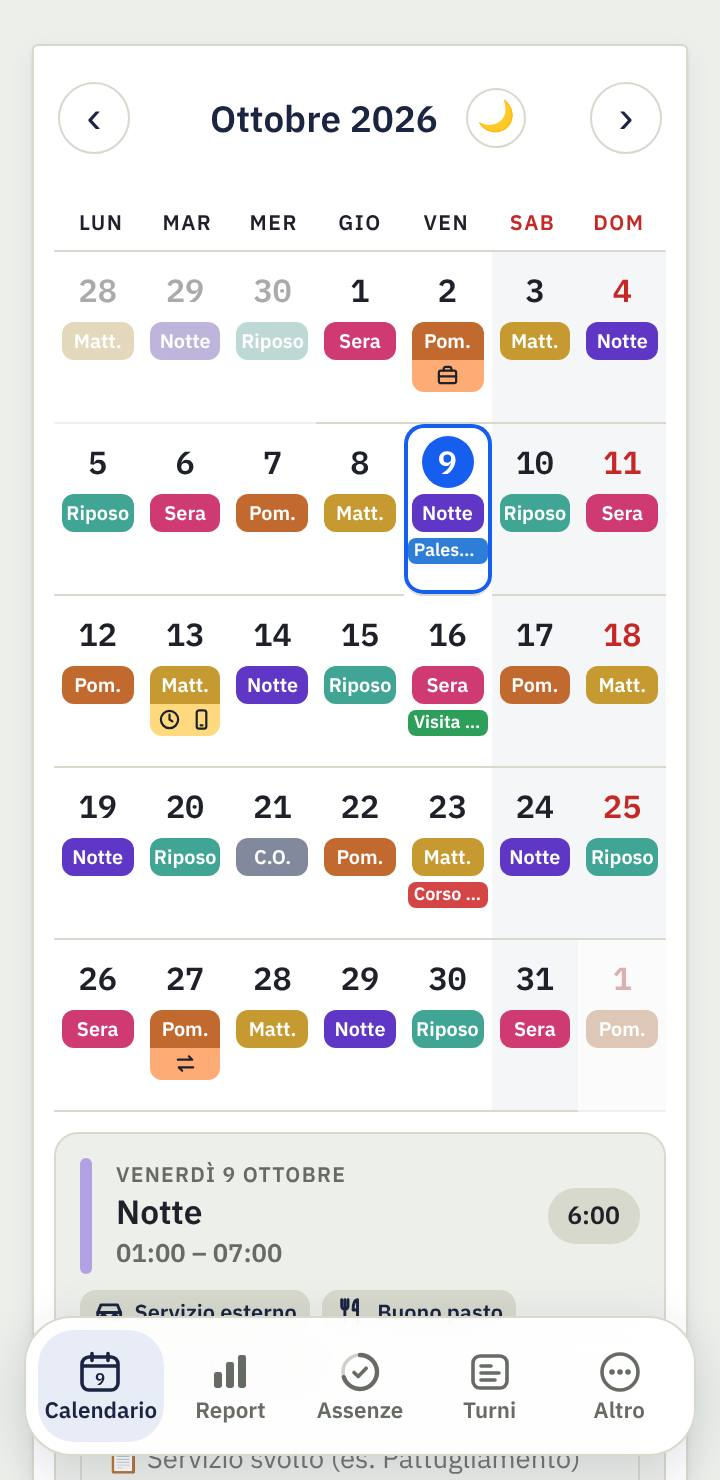
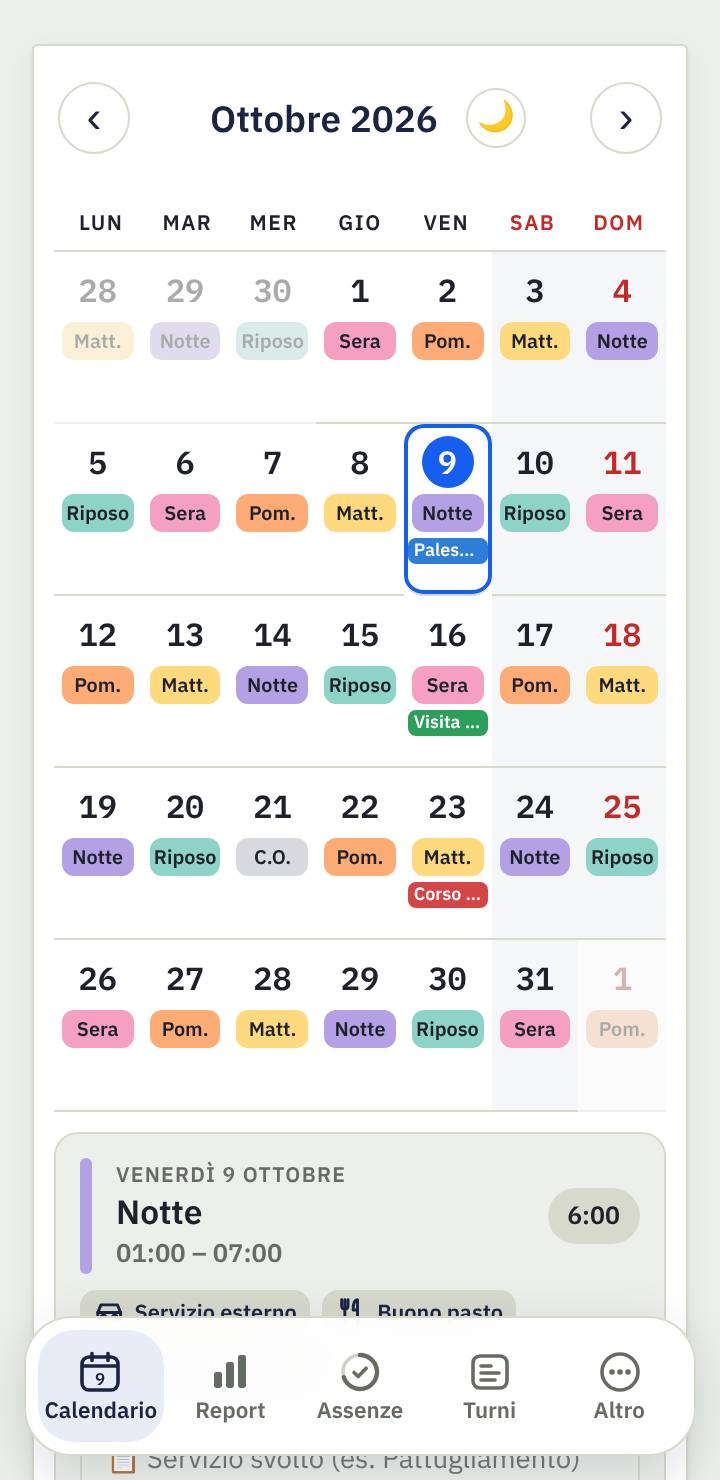
Guida aggiornata alla versione 3.4
- Immagini nuove (calendario, giorno, Report, Assenze, Altro, saldi) e due
  nuove: Cedolino stimato e Anagrafica
- Primo avvio con tutti i dati (reddito facoltativo, resta sul telefono)
- Caselle del calendario senza simboli; cambio turno pagato a luglio
- Report: Personalizza, cedolino con Tutte le voci, ± Conguaglio, PDF,
  detrazioni e addizionali come NoiPA
- Assenze: Giorni di partenza con Modifica, colori, Nuova assenza
- Altro: Anagrafica, Tabelle (valori in blu e ↺), Backup; domande frequenti

Claude-Session: https://claude.ai/code/session_01PSeREU5gDDB7bRrUAU7GkJ

diff --git a/guida-turni.html b/guida-turni.html
@@ -23,20 +23,20 @@ a{color:#2E4A8F}
 @media(max-width:600px){.sez{grid-template-columns:1fr}.sez img{width:min(240px,70vw);margin:4px auto 0}.tab td:first-child{white-space:normal}}
 </style></head><body>
 <h1>Guida a Turni & Accessorio PS</h1>
-<p class="agg">Come si usa l'app, passo per passo · aggiornata alla versione 2.93</p>
+<p class="agg">Come si usa l'app, passo per passo · aggiornata alla versione 3.4</p>
 <nav><a href="#inizio">Primi passi</a><a href="#calendario">Calendario</a><a href="#giorno">Il giorno e le indennità</a><a href="#sequenza">Turni</a><a href="#report">Report</a><a href="#assenze">Assenze</a><a href="#altro">Altro</a><a href="#promemoria">Promemoria e widget</a><a href="#backup">Backup</a><a href="#domande">Domande</a></nav>
 
 <h2 id="inizio">1. Primi passi</h2>
 <div class="sez"><div>
 <p>Al primo avvio l'app ti accompagna in 5 passi:</p>
 <ol>
-<li><b>Chi sei</b>: qualifica, anni di servizio e regione. Servono per stimare stipendio e tasse.</li>
+<li><b>Chi sei</b>: qualifica, anni di servizio, regione, addizionale comunale (0,8% se non la sai), coniuge e figli over 21 a carico, sindacato con la quota al mese e, se vuoi, il reddito dell'anno scorso. Servono per stimare stipendio e tasse.</li>
 <li><b>Come lavori</b>: scegli la tua turnazione (es. Turno in quinta) e cosa fai oggi. L'app riempie i prossimi 3 mesi.</li>
 <li><b>Quanto ti resta</b>: congedo ordinario diviso per anno, recuperi e riposo compensativo, come risultano all'ufficio.</li>
 <li><b>Come la vuoi</b>: tema chiaro o scuro, promemoria e widget (all'inizio sono spenti).</li>
 <li><b>Tutto pronto</b>: un riepilogo di quello che hai scelto.</li>
 </ol>
-<div class="cons">💡 Coniuge, figli over 21 e sindacato li aggiungi dopo in <b>Altro → Anagrafica</b>, nel riquadro "I tuoi dati".</div>
+<div class="cons">💡 Il <b>reddito dell'anno scorso</b> (dalla CU) è facoltativo e resta solo sul telefono. Se lo scrivi, detrazioni e addizionali vengono come nel cedolino NoiPA. Tutto si cambia poi in <b>Altro → Anagrafica</b>.</div>
 </div><img src="turni/guida/saldi.jpg" alt="Saldi di partenza: congedo per anno" loading="lazy"></div>
 
 <h2 id="calendario">2. Calendario</h2>
@@ -49,9 +49,8 @@ a{color:#2E4A8F}
 <li>I giorni del mese prima e dopo si vedono sbiaditi, per capire come continua la turnazione.</li>
 </ul>
 </div><img src="turni/guida/calendario.jpg" alt="Calendario del mese" loading="lazy"></div>
-<h3>Simboli delle indennità</h3>
-<p>Nelle caselle compaiono piccoli simboli per le indennità del giorno (missione, ordine pubblico, reperibilità…). In <b>Altro → Indennità nel calendario</b> scegli quali mostrare. All'inizio servizio esterno, buono pasto e controllo del territorio sono nascosti, perché ci sono quasi ogni giorno.</p>
-<div class="cons">💡 Nascondere un simbolo cambia solo la vista: l'indennità viene <b>sempre contata</b> nei calcoli.</div>
+<h3>Le caselle</h3>
+<p>Ogni casella mostra il turno (Sera, Pom., Notte…) e, se c'è, l'evento. Le indennità del giorno le vedi toccando il giorno, scritte per esteso nel riquadro sotto il calendario (per esempio "2 buoni pasto"), e nell'agenda.</p>
 <h3>Agenda sotto il calendario</h3>
 <div class="sez"><div>
 <p>In <b>Altro → Agenda sotto il calendario</b> puoi far comparire, sotto il mese, i prossimi 14 giorni in elenco: turno, orario, ore, indennità ed eventi, con il totale delle ore di ogni settimana.</p>
@@ -78,7 +77,7 @@ a{color:#2E4A8F}
 <tr><td>Servizio esterno</td><td>Turni di almeno <b>3 ore</b>. Se nello stesso turno c'è anche l'ordine pubblico, si paga solo l'ordine pubblico.</td></tr>
 <tr><td>Missione</td><td>Sulle ore di missione: niente fino a 4 ore, tariffa piena da 4 a 8 ore, ridotta oltre le 8. Il rimborso dei pasti su ricevuta non è calcolato.</td></tr>
 <tr><td>Reperibilità</td><td>Un importo per ogni giorno segnato.</td></tr>
-<tr><td>Cambio turno</td><td>Un importo per ogni giorno segnato.</td></tr>
+<tr><td>Cambio turno</td><td>Un importo per ogni cambio, pagato a luglio dell'anno dopo insieme alla produttività collettiva. Nel Report vedi quanti ne hai nell'anno e quanto varranno.</td></tr>
 <tr><td>Lavorato sul riposo</td><td>L'indennità e <b>un giorno di Recupero riposo</b> in Assenze.</td></tr>
 <tr><td>Lavorato in festivo</td><td><b>Un giorno di Recupero festivo</b> in Assenze.</td></tr>
 <tr><td>Buono pasto</td><td>Solo quanti, senza importo: nel Report, "fuori busta paga". Se in un giorno sono 2, in "Modifica il giorno" scegli <b>2</b>.</td></tr>
@@ -118,24 +117,33 @@ a{color:#2E4A8F}
 <ul>
 <li>In alto: quanto <b>arriva sul conto</b> nel mese, con stipendio, indennità e tasse. Con ‹ › cambi mese.</li>
 <li><b>Il mese</b>: turni, riposi, ore, straordinario e le indennità con <b>lordo e netto</b>.</li>
-<li><b>Statistiche dell'anno</b> e <b>cedolino</b> stimato con lordo, trattenute e netto.</li>
-<li>Con <b>⚙</b> in alto scegli quali di queste parti vedere.</li>
+<li>In fondo: <b>buoni pasto</b>, <b>Cedolino stimato</b> e <b>Statistiche dell'anno</b>. Si aprono toccando la loro riga.</li>
+<li>Con <b>Personalizza</b> in alto scegli quali di queste parti vedere.</li>
 </ul>
-<div class="att">⚠ È una <b>stima</b>. Il netto vero può essere diverso di qualche euro: arretrati, conguagli, addizionali comunali, detrazioni personali. Confronta sempre con il cedolino ufficiale.</div>
+<div class="att">⚠ È una <b>stima</b>. Il netto vero può essere diverso di qualche euro: arretrati, conguagli, rimborsi del 730. Confronta sempre con il cedolino ufficiale.</div>
 <p class="nota">Lo stipendio arriva il mese dopo quello lavorato; indennità e straordinari due mesi dopo (quelli di settembre a novembre). La tredicesima arriva a dicembre. Il Report lo tiene già in conto.</p>
 </div><img src="turni/guida/report.jpg" alt="Report del mese" loading="lazy"></div>
+<h3>Cedolino stimato</h3>
+<div class="sez"><div>
+<ul>
+<li>In alto il <b>netto</b>, sotto <b>Lordo</b> (stipendio, indennità, straordinario) e <b>Tasse e contributi</b> voce per voce.</li>
+<li><b>Tutte le voci</b> mostra il dettaglio: stipendio tabellare, indennità una per una, IRPEF lorda e detrazioni. L'app si ricorda la tua scelta.</li>
+<li><b>± Conguaglio</b> aggiunge o toglie un importo al netto del mese (per esempio un rimborso 730); <b>PDF</b> lo stampa.</li>
+<li>Detrazioni e addizionali si calcolano come NoiPA, sul reddito dell'anno scorso: le addizionali in 9 rate da marzo a novembre. Le aliquote regionali si aggiornano ogni mese dai file del Ministero.</li>
+</ul>
+</div><img src="turni/guida/cedolino.jpg" alt="Cedolino stimato" loading="lazy"></div>
 
 <h2 id="assenze">6. Assenze</h2>
 <div class="sez"><div>
 <ul>
-<li>In alto: quanti <b>giorni di congedo ordinario</b> ti restano, più permesso breve e recuperi.</li>
-<li>Ogni voce ha la sua scheda con l'<b>anello</b>: pieno quando è tutta da usare, si svuota man mano.</li>
-<li>Tocca una scheda per i dettagli e per cambiare <b>quanto spetta</b>.</li>
+<li>In alto i <b>Giorni di partenza</b>, con <b>Modifica</b>.</li>
+<li>Ogni voce su una riga, con il suo colore: quanto <b>rimane su quanto spetta</b>. L'<b>anello</b> è pieno quando è tutta da usare e si svuota man mano; grigio per le voci a 0. Il congedo ordinario mostra anche i giorni di ogni anno.</li>
+<li>Tocca una voce per i dettagli e per cambiare <b>quanto spetta</b>.</li>
 <li>Per usare un'assenza: nel calendario tocca il giorno → <b>Assenza</b> → scegli quale.</li>
 </ul>
 </div><img src="turni/guida/assenze.jpg" alt="Assenze e permessi" loading="lazy"></div>
 <h3>Saldi di partenza</h3>
-<p>L'app non può sapere quanti giorni avevi prima di usarla. Con <b>Inserisci i saldi di partenza</b> (o <b>Correggi</b>) scrivi:</p>
+<p>L'app non può sapere quanti giorni avevi prima di usarla. Con <b>Inserisci i saldi di partenza</b> (o <b>Modifica</b>) scrivi:</p>
 <ul>
 <li>il <b>congedo ordinario per anno</b> (es. 2026: 37, 2025: 15, 2024: 3): si usano prima i giorni più vecchi e non scadono;</li>
 <li>i <b>recuperi</b> riposo e festivo ancora da fare;</li>
@@ -155,19 +163,28 @@ a{color:#2E4A8F}
 <tr><td>Riposo compensativo</td><td>Ore automatiche: salgono con lo straordinario messo a riposo, scendono quando lo usi indicando l'orario del turno sostituito.</td></tr>
 <tr><td>Aspettativa, maternità/paternità, congedo parentale</td><td>Solo per segnare i giorni sul calendario.</td></tr>
 </table>
-<p>Con <b>＋ Aggiungi assenza personalizzata</b> crei una voce tua: poi nella sua scheda le dai nome e quanto spetta.</p>
+<p>Con <b>Nuova assenza</b> in alto (o <b>＋ Aggiungi un'assenza tua</b> in fondo) crei una voce tua: poi nella sua scheda le dai nome e quanto spetta.</p>
 
 <h2 id="altro">7. Altro</h2>
 <div class="sez"><div>
 <ul>
-<li><b>Anagrafica</b>: qualifica (con il distintivo del grado), anni, regione, famiglia, sindacato.</li>
-<li><b>Tabelle ufficiali</b>: stipendi, indennità e aliquote usati nei calcoli. Si aggiornano da sole dal sito (vedi <a href="tabelle-turni.html">Tabelle economiche</a>); le tue modifiche restano.</li>
-<li><b>Indennità nel calendario</b>: quali simboli vedere.</li>
-<li><b>Tema</b> (Auto, Luce, Chiaro, Grigio, Nero) e <b>colore dell'app</b>.</li>
+<li><b>Anagrafica</b>: qualifica (con il distintivo del grado), anni, regione, addizionale comunale, famiglia, sindacato con la quota al mese; facoltativi il reddito e l'addizionale regionale dell'anno scorso (dalla CU). Se manca qualcosa che serve, il Report te lo dice.</li>
+<li><b>Tabelle ufficiali</b>: stipendi, indennità e aliquote usati nei calcoli. Si aggiornano da sole dal sito (vedi <a href="tabelle-turni.html">Tabelle economiche</a>), le addizionali regionali ogni mese dal Ministero. Con <b>Modifica i valori a mano</b> le cambi tu: il valore cambiato si vede in blu, con ↺ torni a quello ufficiale.</li>
+<li><b>Backup</b>: nella sua pagina, sul telefono e su Google Drive.</li>
+<li><b>Tema e colore</b> (Auto, Luce, Chiaro, Grigio, Nero) dell'app.</li>
 <li><b>Guida all'app</b>: apre questa pagina.</li>
 <li><b>Segnala un problema o un'idea</b>: apre l'email già scritta, con versione e telefono.</li>
 </ul>
 </div><img src="turni/guida/altro.jpg" alt="Impostazioni in Altro" loading="lazy"></div>
+<h3>Anagrafica</h3>
+<div class="sez"><div>
+<p>I dati che servono al netto. In particolare:</p>
+<ul>
+<li><b>Addizionale comunale</b>: parte da 0,8% (il valore più comune); scrivi quella del tuo Comune, la trovi sul cedolino.</li>
+<li><b>Reddito dell'anno scorso</b> e <b>addizionale regionale dell'anno scorso</b>: li trovi sulla CU. Facoltativi: senza, l'app li stima. Da giugno, se il reddito è di due anni prima, l'app ti ricorda di aggiornarlo con la CU nuova.</li>
+<li><b>Iscritto al sindacato</b>: con Sì compare la quota al mese, da correggere con quella del cedolino.</li>
+</ul>
+</div><img src="turni/guida/anagrafica.jpg" alt="Anagrafica" loading="lazy"></div>
 
 <h3 id="promemoria">Promemoria del turno</h3>
 <ol>
@@ -204,9 +221,9 @@ a{color:#2E4A8F}
 
 <h2 id="domande">8. Domande frequenti</h2>
 <details><summary>Ho cambiato telefono: come recupero i dati?</summary><p>Sul telefono vecchio: <b>Altro → Backup → Esporta backup</b> e manda il file sul telefono nuovo (oppure usa il backup su Google Drive). Sul telefono nuovo installa l'app e usa <b>Importa</b> (o <b>Ripristina da Drive</b>).</p></details>
-<details><summary>Perché il netto non è uguale alla mia busta paga?</summary><p>L'app fa una stima con le tabelle ufficiali. Arretrati, conguagli di fine anno, addizionale comunale e detrazioni personali possono cambiare il netto vero di qualche euro.</p></details>
-<details><summary>Non vedo l'indennità di controllo del territorio</summary><p>Controlla che il turno abbia almeno 3 ore tra le 18 e le 22 o tra le 22 e le 6, e che non ci sia anche l'ordine pubblico. Il simbolo in calendario all'inizio è nascosto: si accende in <b>Altro → Indennità nel calendario</b>.</p></details>
-<details><summary>Ho sbagliato i giorni di congedo iniziali</summary><p>In <b>Assenze</b> tocca <b>Correggi</b> accanto a "Saldi di partenza" e scrivi i numeri che ti dà l'ufficio oggi.</p></details>
+<details><summary>Perché il netto non è uguale alla mia busta paga?</summary><p>L'app fa una stima con le tabelle ufficiali. Per avvicinarla al cedolino: in Anagrafica scrivi il <b>reddito</b> e l'<b>addizionale regionale dell'anno scorso</b> (dalla CU), l'<b>addizionale comunale</b> e la <b>quota sindacale</b>. Arretrati, conguagli di fine anno e rimborsi del 730 restano fuori: li puoi aggiungere con <b>± Conguaglio</b> nel cedolino.</p></details>
+<details><summary>Non vedo l'indennità di controllo del territorio</summary><p>Controlla che il turno abbia almeno 3 ore tra le 18 e le 22 o tra le 22 e le 6, e che non ci sia anche l'ordine pubblico. Toccando il giorno la vedi nel riquadro sotto il calendario.</p></details>
+<details><summary>Ho sbagliato i giorni di congedo iniziali</summary><p>In <b>Assenze</b> tocca <b>Modifica</b> accanto a "Giorni di partenza" e scrivi i numeri che ti dà l'ufficio oggi.</p></details>
 <details><summary>Ho cambiato turnazione</summary><p>In <b>Turni → Genera turni automaticamente</b> scegli la nuova sequenza e la data da cui parte: i giorni da quella data vengono riscritti, ferie e assenze restano.</p></details>
 <details><summary>Il promemoria non arriva</summary><p>Controlla che le notifiche dell'app siano permesse e che la batteria dell'app sia "Senza restrizioni" nelle impostazioni di Android.</p><p><b>Su Xiaomi, Redmi e POCO</b> non basta accendere le notifiche dell'app: in Impostazioni → App → Turni & Accessorio PS → Notifiche → <b>Categorie di notifica</b>, apri ogni categoria (Promemoria eventi, Promemoria del turno, Avvisi evento) e accendi <b>Visualizza le notifiche</b>. Se una categoria è spenta l'app te lo dice, e "Attiva notifiche" ti porta direttamente lì.</p></details>
 <details><summary>L'app manda i miei dati da qualche parte?</summary><p>No. Turni, stipendio e assenze restano sul telefono. L'app scarica solo il file pubblico delle tabelle dal sito, una volta a settimana. Il backup su Drive va solo nel tuo account Google. Vedi l'<a href="privacy-turni.html">informativa privacy</a>.</p></details>
